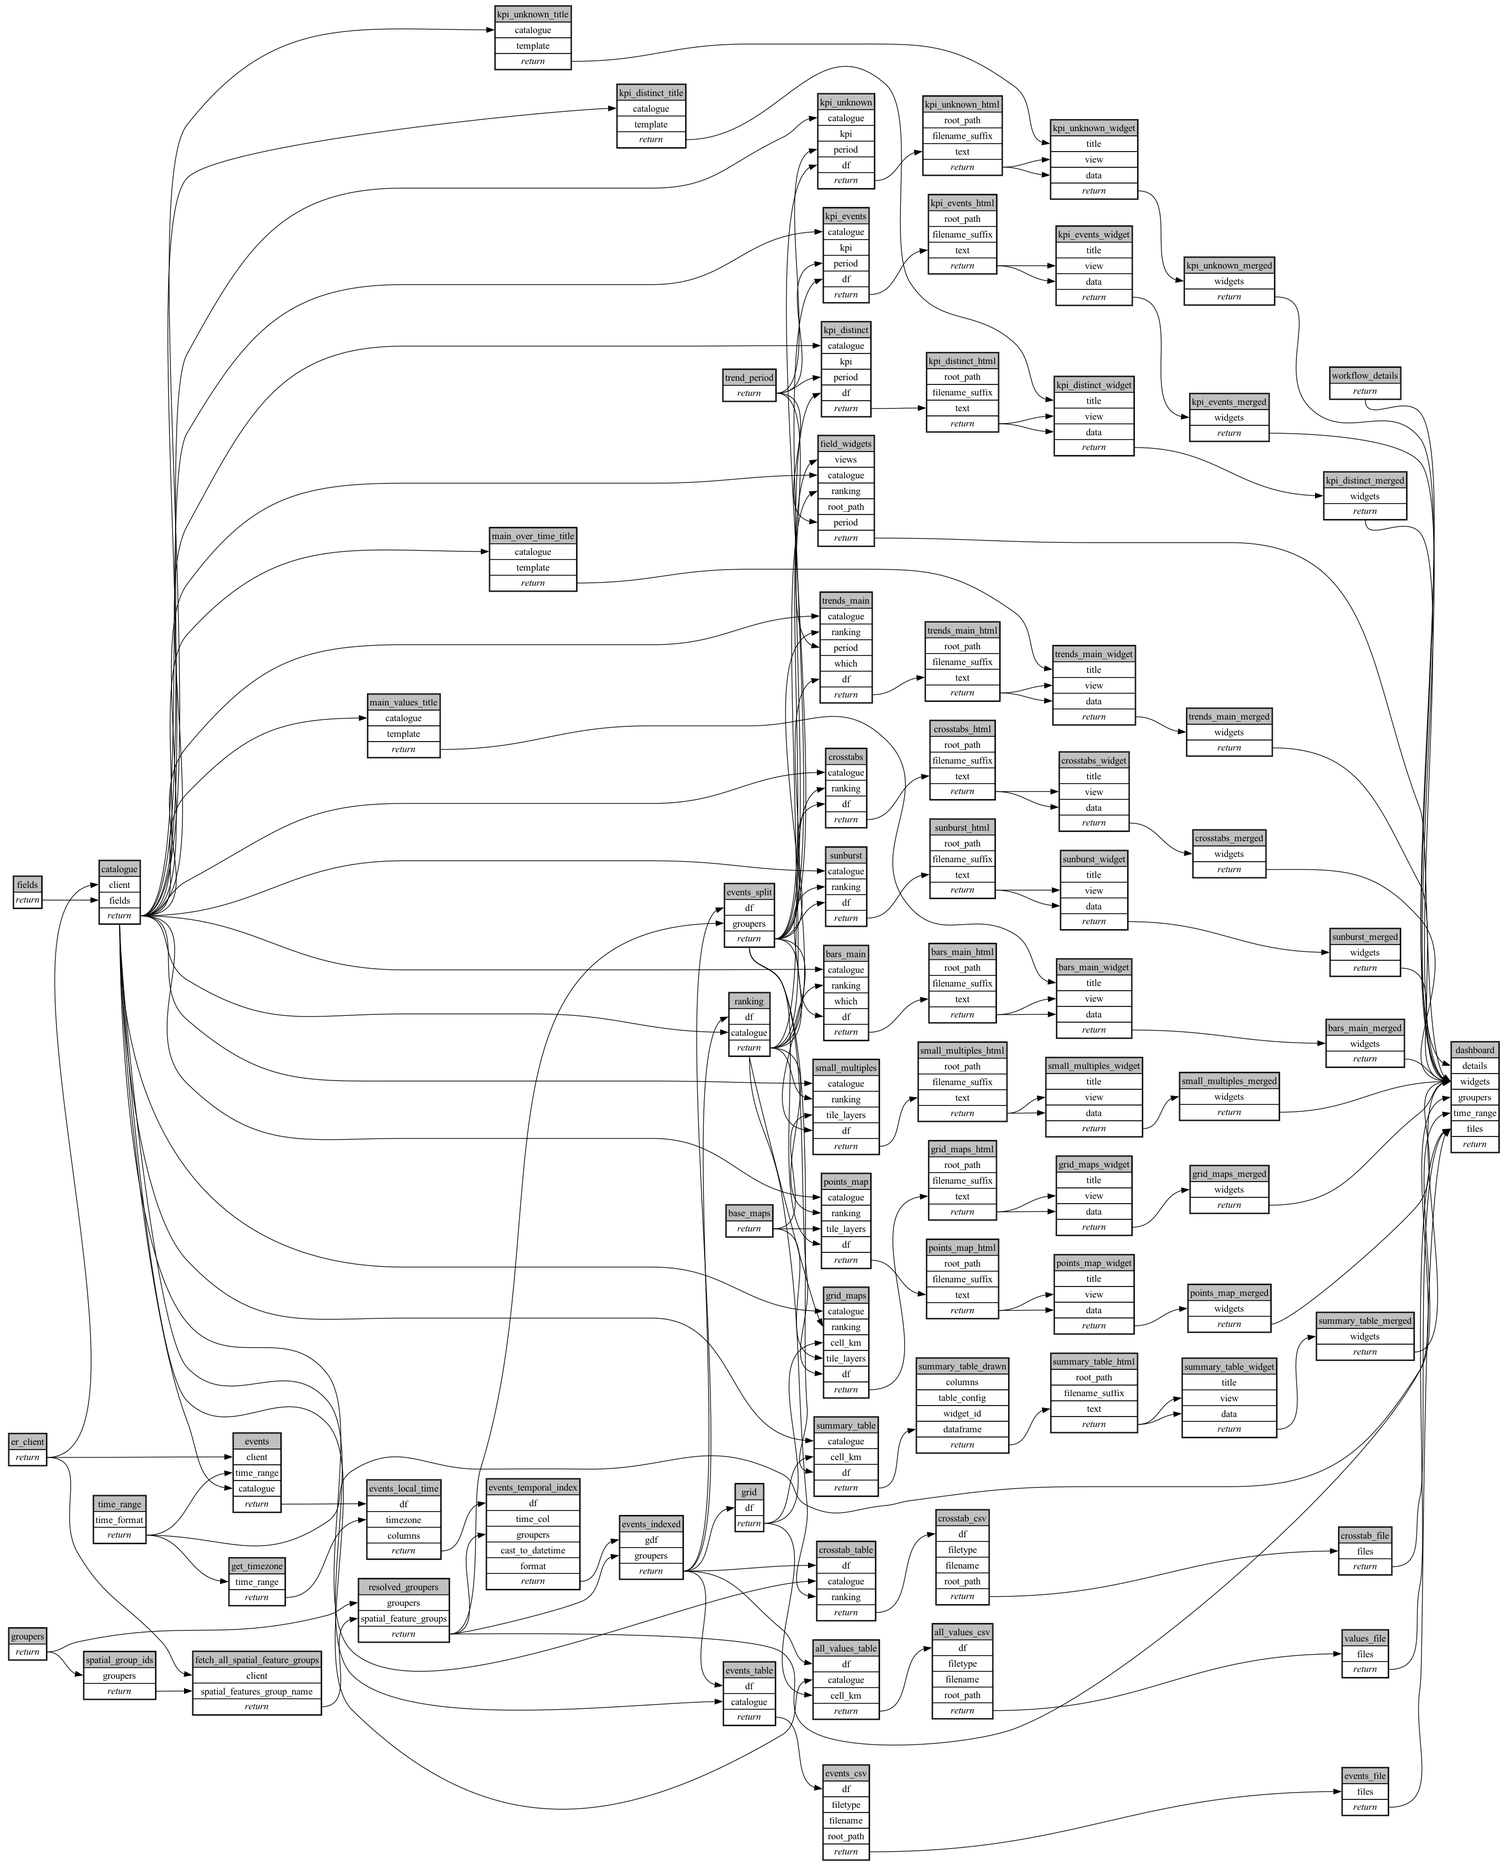
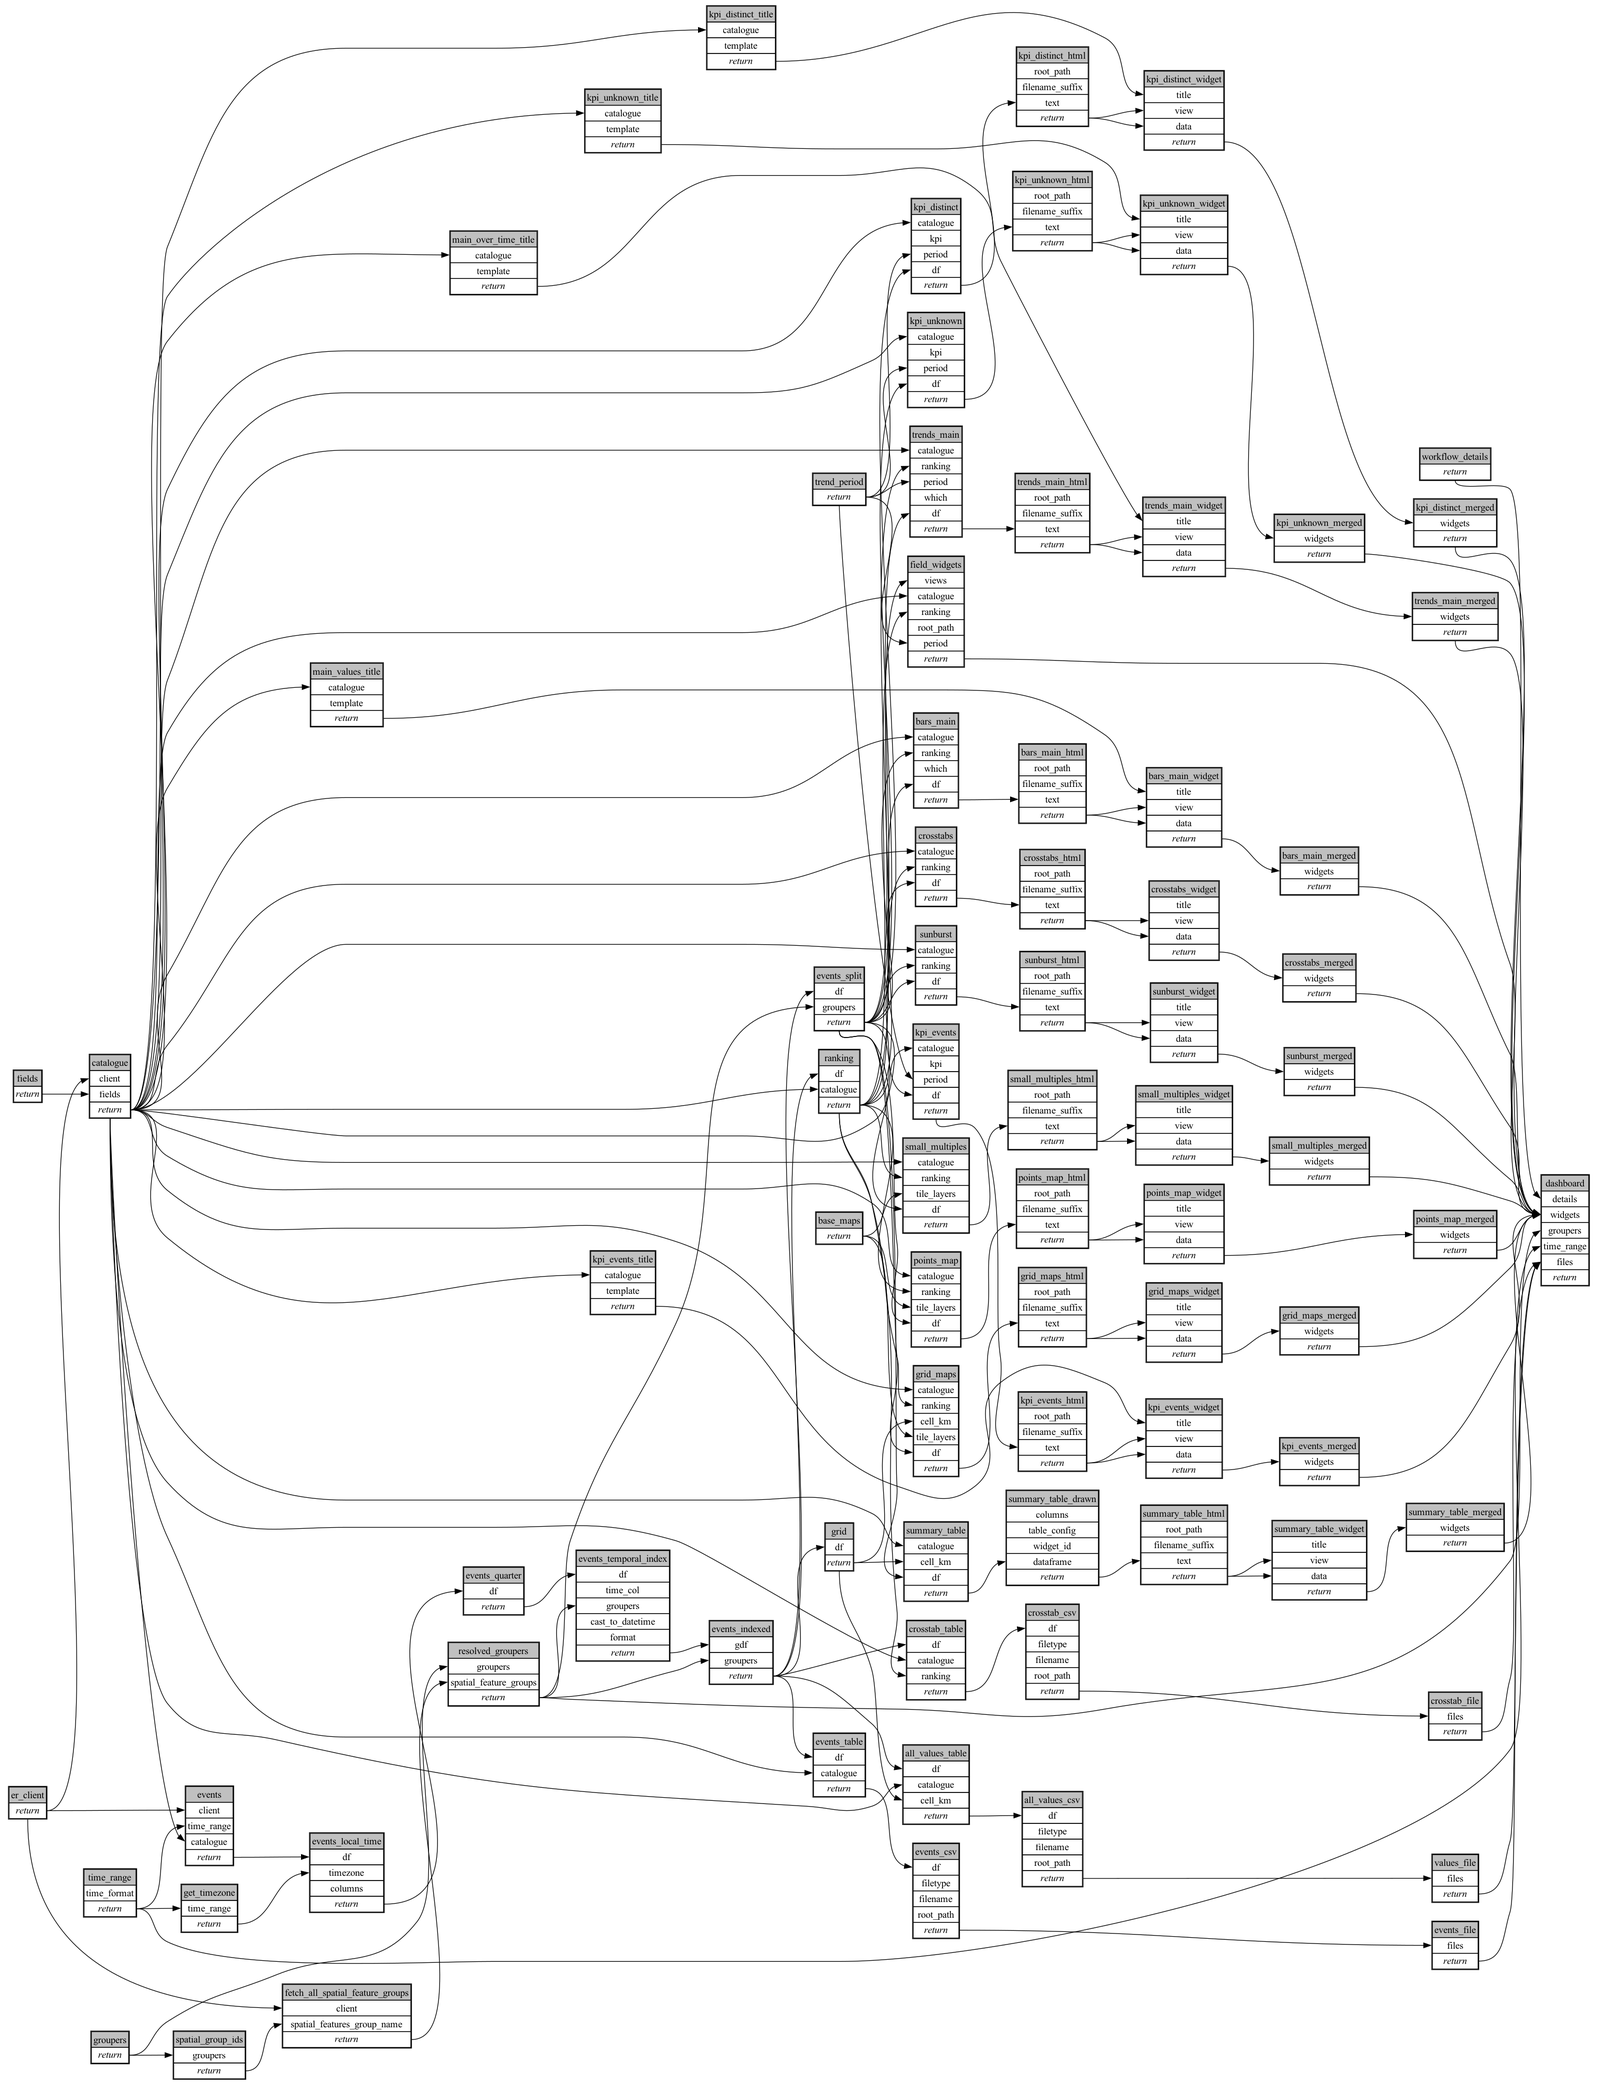
Follow-up fields, repeating groups and group by quarter (ext-wd 0.0.7)
- Group by: new Quarter option (add_categorical_quarter adds a "quarter" column
  after the timezone conversion; the platform's time grouper has none).
- The Events tile is titled by what one record is: "Detections" when a field
  from a repeating group is used.
- ext-wd 0.0.7 from prefix.dev: follow-up fields counted where asked and sharing
  a sunburst ring, repeating-group fields ("Detection: Species").
- README, PLAN and TODO updated.

diff --git a/ecoscope-workflows-event-details-categorical-workflow/ecoscope_workflows_event_details_categorical_workflow/dags/run_sequential.py b/ecoscope-workflows-event-details-categorical-workflow/ecoscope_workflows_event_details_categorical_workflow/dags/run_sequential.py
@@ -52,6 +52,9 @@ from ecoscope.platform.tasks.transformation import (
     resolve_spatial_feature_groups_for_spatial_groupers as resolve_spatial_feature_groups_for_spatial_groupers,
 )
 from ecoscope_workflows_ext_wd.tasks import (
+    add_categorical_quarter as add_categorical_quarter,
+)
+from ecoscope_workflows_ext_wd.tasks import (
     categorical_crosstab_table as categorical_crosstab_table,
 )
 from ecoscope_workflows_ext_wd.tasks import (
@@ -294,6 +297,23 @@ def main(params: dict[str, Any], validate_params_schema: bool = True):
         .call()
     )
 
+    events_quarter = (
+        task(add_categorical_quarter)
+        .validate()
+        .set_task_instance_id("events_quarter")
+        .handle_errors()
+        .with_tracing()
+        .skipif(
+            conditions=[
+                any_is_empty_df,
+                any_dependency_skipped,
+            ],
+            unpack_depth=1,
+        )
+        .partial(df=events_local_time, **(params.get("events_quarter") or {}))
+        .call()
+    )
+
     spatial_group_ids = (
         task(extract_spatial_grouper_feature_group_names)
         .validate()
@@ -364,7 +384,7 @@ def main(params: dict[str, Any], validate_params_schema: bool = True):
             unpack_depth=1,
         )
         .partial(
-            df=events_local_time,
+            df=events_quarter,
             time_col="time",
             groupers=resolved_groupers,
             cast_to_datetime=True,
@@ -645,6 +665,27 @@ def main(params: dict[str, Any], validate_params_schema: bool = True):
         .call()
     )
 
+    kpi_events_title = (
+        task(categorical_widget_title)
+        .validate()
+        .set_task_instance_id("kpi_events_title")
+        .handle_errors()
+        .with_tracing()
+        .skipif(
+            conditions=[
+                any_is_empty_df,
+                any_dependency_skipped,
+            ],
+            unpack_depth=1,
+        )
+        .partial(
+            catalogue=catalogue,
+            template="{Unit}",
+            **(params.get("kpi_events_title") or {}),
+        )
+        .call()
+    )
+
     kpi_distinct_title = (
         task(categorical_widget_title)
         .validate()
@@ -742,7 +783,7 @@ def main(params: dict[str, Any], validate_params_schema: bool = True):
             ],
             unpack_depth=1,
         )
-        .partial(title="Events", **(params.get("kpi_events_widget") or {}))
+        .partial(title=kpi_events_title, **(params.get("kpi_events_widget") or {}))
         .map(argnames=["view", "data"], argvalues=kpi_events_html)
     )
 

diff --git a/ecoscope-workflows-event-details-categorical-workflow/ecoscope_workflows_event_details_categorical_workflow/dags/run_sequential_mock_io.py b/ecoscope-workflows-event-details-categorical-workflow/ecoscope_workflows_event_details_categorical_workflow/dags/run_sequential_mock_io.py
@@ -46,6 +46,9 @@ from ecoscope.platform.tasks.transformation import (
 from ecoscope.platform.tasks.transformation import (
     extract_spatial_grouper_feature_group_names as extract_spatial_grouper_feature_group_names,
 )
+from ecoscope_workflows_ext_wd.tasks import (
+    add_categorical_quarter as add_categorical_quarter,
+)
 
 get_spatial_features_group = create_func_magicmock(  # 🧪
     anchor="ecoscope.platform.tasks.io",  # 🧪
@@ -311,6 +314,23 @@ def main(params: dict[str, Any], validate_params_schema: bool = True):
         .call()
     )
 
+    events_quarter = (
+        task(add_categorical_quarter)
+        .validate()
+        .set_task_instance_id("events_quarter")
+        .handle_errors()
+        .with_tracing()
+        .skipif(
+            conditions=[
+                any_is_empty_df,
+                any_dependency_skipped,
+            ],
+            unpack_depth=1,
+        )
+        .partial(df=events_local_time, **(params.get("events_quarter") or {}))
+        .call()
+    )
+
     spatial_group_ids = (
         task(extract_spatial_grouper_feature_group_names)
         .validate()
@@ -381,7 +401,7 @@ def main(params: dict[str, Any], validate_params_schema: bool = True):
             unpack_depth=1,
         )
         .partial(
-            df=events_local_time,
+            df=events_quarter,
             time_col="time",
             groupers=resolved_groupers,
             cast_to_datetime=True,
@@ -662,6 +682,27 @@ def main(params: dict[str, Any], validate_params_schema: bool = True):
         .call()
     )
 
+    kpi_events_title = (
+        task(categorical_widget_title)
+        .validate()
+        .set_task_instance_id("kpi_events_title")
+        .handle_errors()
+        .with_tracing()
+        .skipif(
+            conditions=[
+                any_is_empty_df,
+                any_dependency_skipped,
+            ],
+            unpack_depth=1,
+        )
+        .partial(
+            catalogue=catalogue,
+            template="{Unit}",
+            **(params.get("kpi_events_title") or {}),
+        )
+        .call()
+    )
+
     kpi_distinct_title = (
         task(categorical_widget_title)
         .validate()
@@ -759,7 +800,7 @@ def main(params: dict[str, Any], validate_params_schema: bool = True):
             ],
             unpack_depth=1,
         )
-        .partial(title="Events", **(params.get("kpi_events_widget") or {}))
+        .partial(title=kpi_events_title, **(params.get("kpi_events_widget") or {}))
         .map(argnames=["view", "data"], argvalues=kpi_events_html)
     )
 

diff --git a/README.md b/README.md
@@ -15,13 +15,17 @@ One event type per run, **v2 forms only**. Categorical means a dropdown on the f
 | | **Main Field** - Choice field to analyze | always, required | Drives the summary tiles, main charts and map colours. Must allow one choice per event |
 | | **Other Fields** - More choice fields to summarize | always | Up to 8; each gets its own widgets |
 | | **Cross-tabs** | always | Pairs of fields (rows × columns) |
-| | Sunburst Rings | advanced | Rings from the center out; **empty = the main field, then the first other field that allows one choice per event** |
+| | Sunburst Rings | advanced | Rings from the center out; **empty = the main field, then its follow-up fields (one shared ring), or else the first other field that allows one choice per event** |
 | | Keep Form Order | advanced | Fields whose choices keep the form's order instead of count order (age class, tank level) |
 | | Show Every Value | advanced | Bars, cross-tabs and charts over time list every value instead of top 10 (8 over time) + Other; values past the 8 colours are grey |
-| Group by | Time / Reported By / area | always | Optional: one dashboard view per group |
+| Group by | Time / Reported By / Quarter / area | always | Optional: one dashboard view per group. Quarter ("2026 Q1") comes from `add_categorical_quarter`; the platform's time grouper has none |
 | Base Maps | | advanced | Standard ecoscope base maps |
 | Over Time | Time Period | advanced | Auto (weekly ≤ 2 months, monthly ≤ 3 years, else quarterly), or fixed |
 | Grid Map | Grid Square Size (km) | advanced | Auto: about 25 squares across the events |
+
+**Follow-up fields** (an answer opens a question, e.g. Type of Death "Poached" opens Cause of Death (POACHED)) are typed like any other field. They count only the events where they were asked ("34 of 260 events · asked when Type of Death is Poached"). Follow-ups of one parent share one sunburst ring.
+
+**Repeating groups** (a list of rows in one event, e.g. Bird Point Count's Detection rows): type `Detection: Species`, or just `Species`. Using a group field makes each row a record, so the dashboard counts detections, not events. Fields from two groups can't be mixed.
 
 Fields are **typed as they read on the form** ("Water Status"); the field key (`water_status`) also works, and case, spaces and underscores don't matter. A name that isn't a dropdown on the form stops the run with a message listing the form's dropdown fields. They become dropdowns once EarthRangerEnumResolver can list categorical fields for this workflow (see `PLAN.md` §2-3).
 
@@ -48,7 +52,7 @@ A value keeps its colour, and "Other" holds the same values, in every view: rank
 
 ## Develop
 
-Tasks: `ecoscope-workflows-ext-wd` 0.0.6 on prefix.dev (wd-partner-tasks, checked out at `../wd-partner-tasks-categorical`): `tasks/_categorical.py`, tests in `tests/tasks/test_categorical.py`.
+Tasks: `ecoscope-workflows-ext-wd` 0.0.7 on prefix.dev (wd-partner-tasks, checked out at `../wd-partner-tasks-categorical`): `tasks/_categorical.py`, tests in `tests/tasks/test_categorical.py`.
 
 ```console
 make build     # build unreleased ext-wd into /tmp/ecoscope-workflows-custom/categorical/artifacts

diff --git a/PLAN.md b/PLAN.md
@@ -240,7 +240,12 @@ Not built yet: fields inside repeating groups, more than one grouper at a time, 
 - **Desktop look (2026-10-22):** checked against ecoscope-desktop (`WorkflowResults.tsx`): the dashboard is the right 4/5 of the page, so tiles are narrower than a full-width preview; `dev/preview_dashboard.py` now draws that page. Single-chart widgets fill their tile; long answers are shortened in bar labels and legends (full text on hover). No question lines in the widgets (as in the incidents workflow): a widget is its title and chart.
 - **Headline tiles (2026-10-22):** the custom Summary widget (three mini-cards and a footnote in one tile) didn't fit its box. It is now three widgets, one number and sparkline each, filling their tile like QENP's `draw_sparkline_kpi` (`draw_categorical_kpi`, kpi = events / distinct / unknown). The footnote (events without a location, trend period, grid size) is gone.
 - **Field settings (2026-10-26):** a one-list "Fields" form was tried (2026-10-25) and reverted. The form keeps Main Field, Other Fields, Cross-tabs, Sunburst Rings and Keep Form Order, with two changes: **Sunburst Rings left empty is automatic** (the main field, then the first other field that allows one choice per event), and blank entries are ignored. Titles and descriptions follow the platform's own wording (ecoscope-platform `_earthranger.py`: "choice field", "Select…", "Choose…"), e.g. "Main Field - Choice field to analyze".
-- **Still open against the PRD:** group by quarter (the platform has none); summary grid labels show "%" only, with n on hover; parent and child fields untested (no test site has one); personal fields beyond reporter names.
+- **PRD gaps closed (2026-10-26, ext-wd PR #43):**
+  - *Follow-up fields:* v2 forms keep them in `allOf → if/then`, so they weren't found by name. Now each is linked to its parent and the answers that open it. Records where it wasn't asked are "(not asked)" and left out of its outputs, and shares are out of the records where it was asked. Follow-ups of one parent share a sunburst ring, set automatically when Sunburst Rings is empty. Demo: invented data on Naibunga's real Animal Carcass form.
+  - *Repeating groups:* fields "Detection: Species" make each group row a record ("detections"); event fields repeat per row; two groups can't be mixed. Demo: WD Bird Point Count, 317 detections from 21 counts.
+  - *Group by Quarter:* a "quarter" column (`add_categorical_quarter`) used as a value grouper.
+  - "Unknown - please describe in notes" counts as Unknown.
+- **Still open against the PRD:** summary grid labels show "%" only, with n on hover.
 
 Not done yet: a release repo, and field dropdowns once ecoscope-server supports them (§3 phase 2).
 

diff --git a/TODO.md b/TODO.md
@@ -15,14 +15,12 @@ Open work for the Event Details - Categorical Field workflow. Background is in `
 - [ ] Rewrite the field descriptions in plain words (proposed wording is in the chat of 2026-10-22).
 - [ ] Field dropdowns instead of typed names, once Alex's ecoscope-server change lets EarthRangerEnumResolver list categorical fields (`PLAN.md` §3, phase 2).
 
-## Repeating groups (e.g. WD Bird Point Count)
+## Repeating groups, follow-up fields, quarter (built 2026-10-26, wd-partner-tasks PR #43)
 
-- [ ] Support questions inside a repeating group. On WD `bird_point_count`, **Detection** is a list of rows (one per bird) holding Species, Distance band, Time interval, Detection type, Flyover and Inside corridor (all dropdowns), plus Count and Other species.
-  - One detection = one record, so "Species" counts detections, and cross-tabs like Species × Distance band work.
-  - Field names like `Detection: Species`.
-  - Also covers naibungalower `sighting_details` (species).
-  - About a day plus tests.
-- [ ] Until then, Bird Point Count only works on the survey fields: Station, Round, Cloud Cover, Wind (Beaufort) and Rain. Only 11 counts so far (1-21 Oct 2026).
+- [x] Merge PR #43 and release ext-wd 0.0.7 (tag `wd-v0.0.7`, 2026-10-26); the workflow uses it.
+- [ ] Add a test case for a repeating group or follow-up field. Needs its own mock-IO data (the mock-IO files are shared by all cases today).
+- [ ] Points map with a repeating group: species seen at one station share a spot, so only the top dot shows (the count is on hover).
+- [ ] Naibunga `sighting_details` (species) is also a repeating group; not tried yet.
 
 ## Example data
 
@@ -42,8 +40,7 @@ Open work for the Event Details - Categorical Field workflow. Background is in `
 
 ## Against the PRD (not done)
 
-- [ ] Group by quarter. The platform's time grouper has no quarter.
 - [ ] Summary grid labels show only "%". The PRD's "56%, n=16" is shown on hover.
-- [ ] Parent and child fields (e.g. cause of death after "Poached") are untested, because no test site has one.
-- [ ] Personal fields: only reporter names are left out of the events CSV.
+- [ ] Follow-up fields are tested on invented data on Naibunga's real Animal Carcass form (4 real carcasses so far).
+- Personal fields: only the selected choice fields are read (no notes or free text), and reporter names are left out of the events CSV.
 - [ ] PRD "potential additions": encounter rates, seasonality, completeness by field, change between two periods, distinct subjects, report document.

diff --git a/ecoscope-workflows-event-details-categorical-workflow/README.md b/ecoscope-workflows-event-details-categorical-workflow/README.md
@@ -5,8 +5,8 @@
 
 ```yaml
 # fingerprint:
-artifacts_sha256_basic: eba9255e9091687d853fbf41ea704db3330171a0fcc33b6df80813197ef922b6
-artifacts_sha256_strict: 31d8c014f9e08add632120cae75a44feb5a0fa090ac341d8605edc42aa99b796
+artifacts_sha256_basic: 1954cb7c68102056c04028c9c5fb91e54b31e811e40d587fc1fc2b69763f08f4
+artifacts_sha256_strict: 1bec8a0a35b935a60027debb6c2cca54c0bedafb75678154be44905eaf8f48e9
 installed_requirements:
 - channel: https://repo.prefix.dev/ecoscope-workflows/
   name: ecoscope-platform
@@ -19,9 +19,9 @@ installed_requirements:
   version: {version: ==0.9.2}
 - channel: https://repo.prefix.dev/ecoscope-workflows-custom/
   name: ecoscope-workflows-ext-wd
-  version: {version: ==0.0.6}
+  version: {version: ==0.0.7}
 params_sha256: 12f473d41de32b1dae5979736fa9d8a9f2ccf3a1f2e1e28b6a227d83cb9f7e46
-spec_sha256: 9c394f44db4cc2096ed7774e0a0a0f36605a87d91af79a29461825216b7677af
+spec_sha256: 964222b565fe7dc57a472199dcfe58993fba0f58d2727b1a052c118e5022cb32
 
 ```
 
